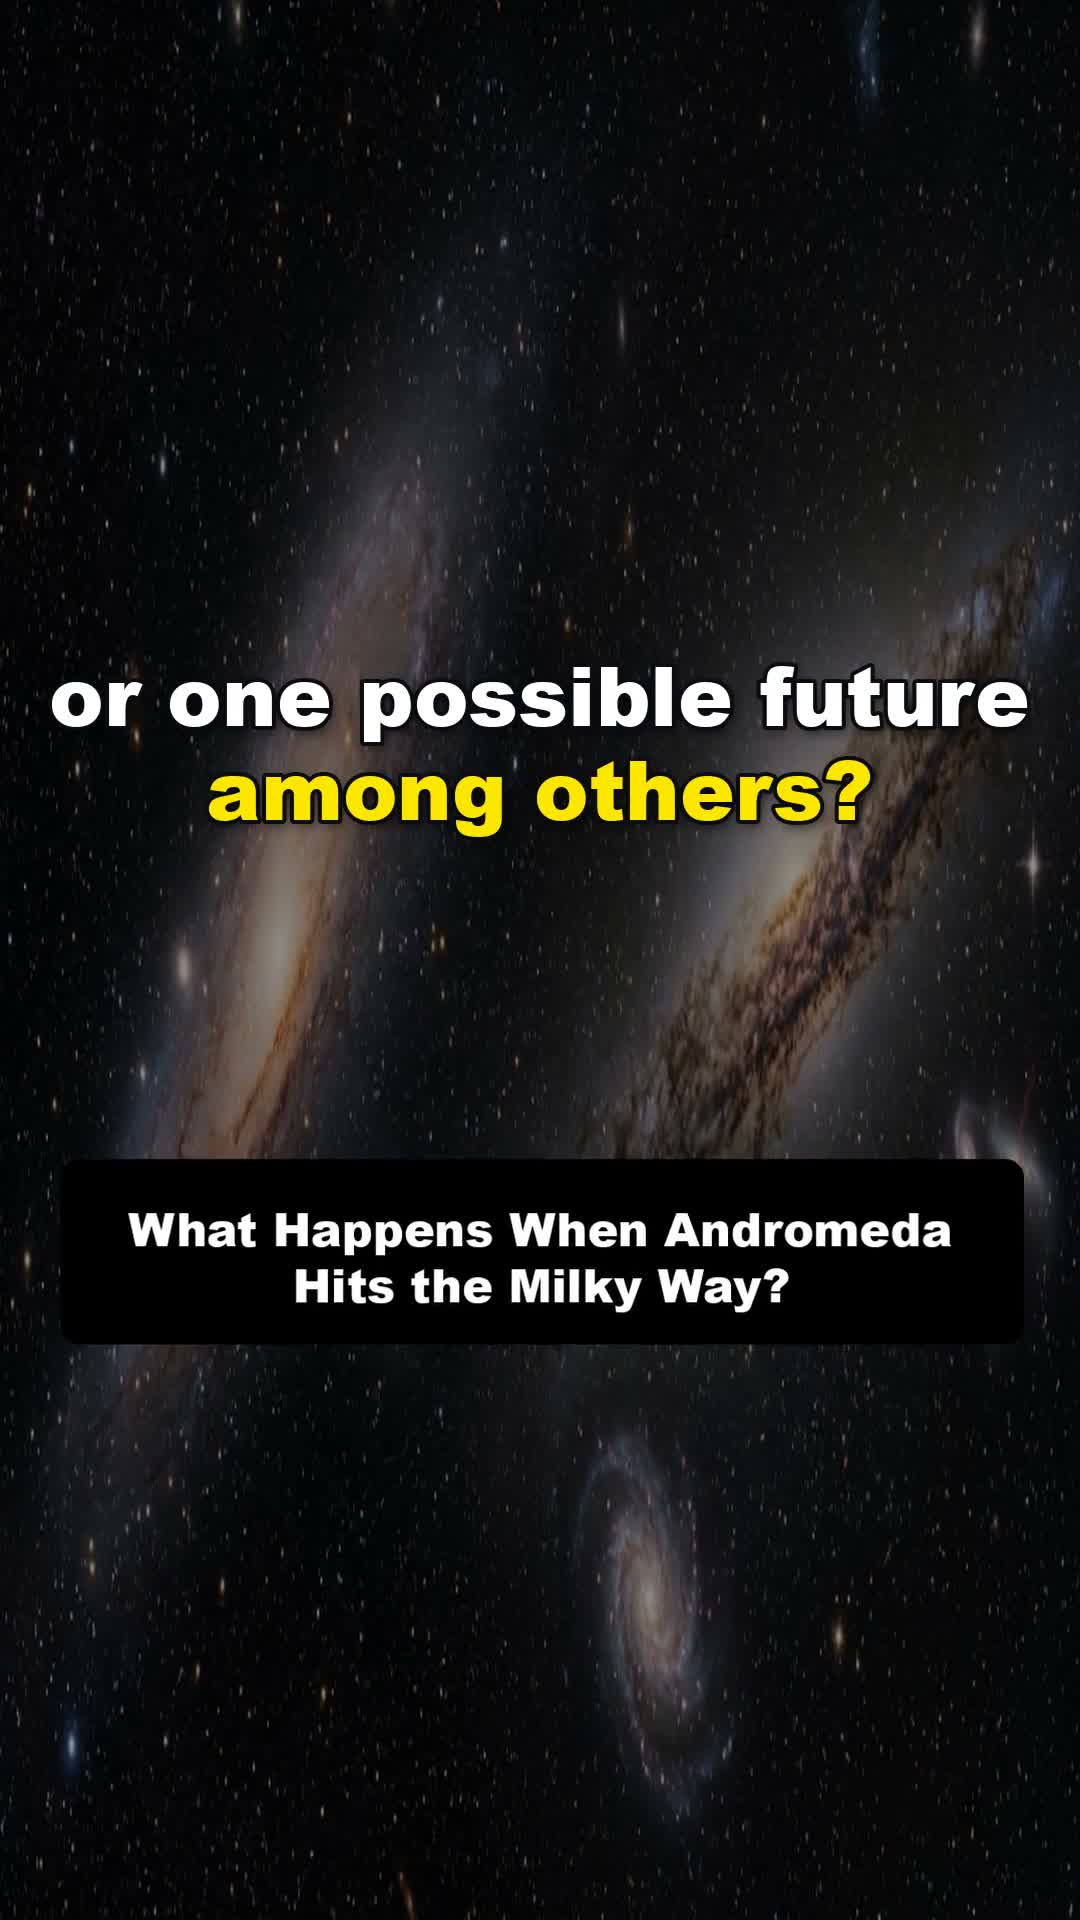
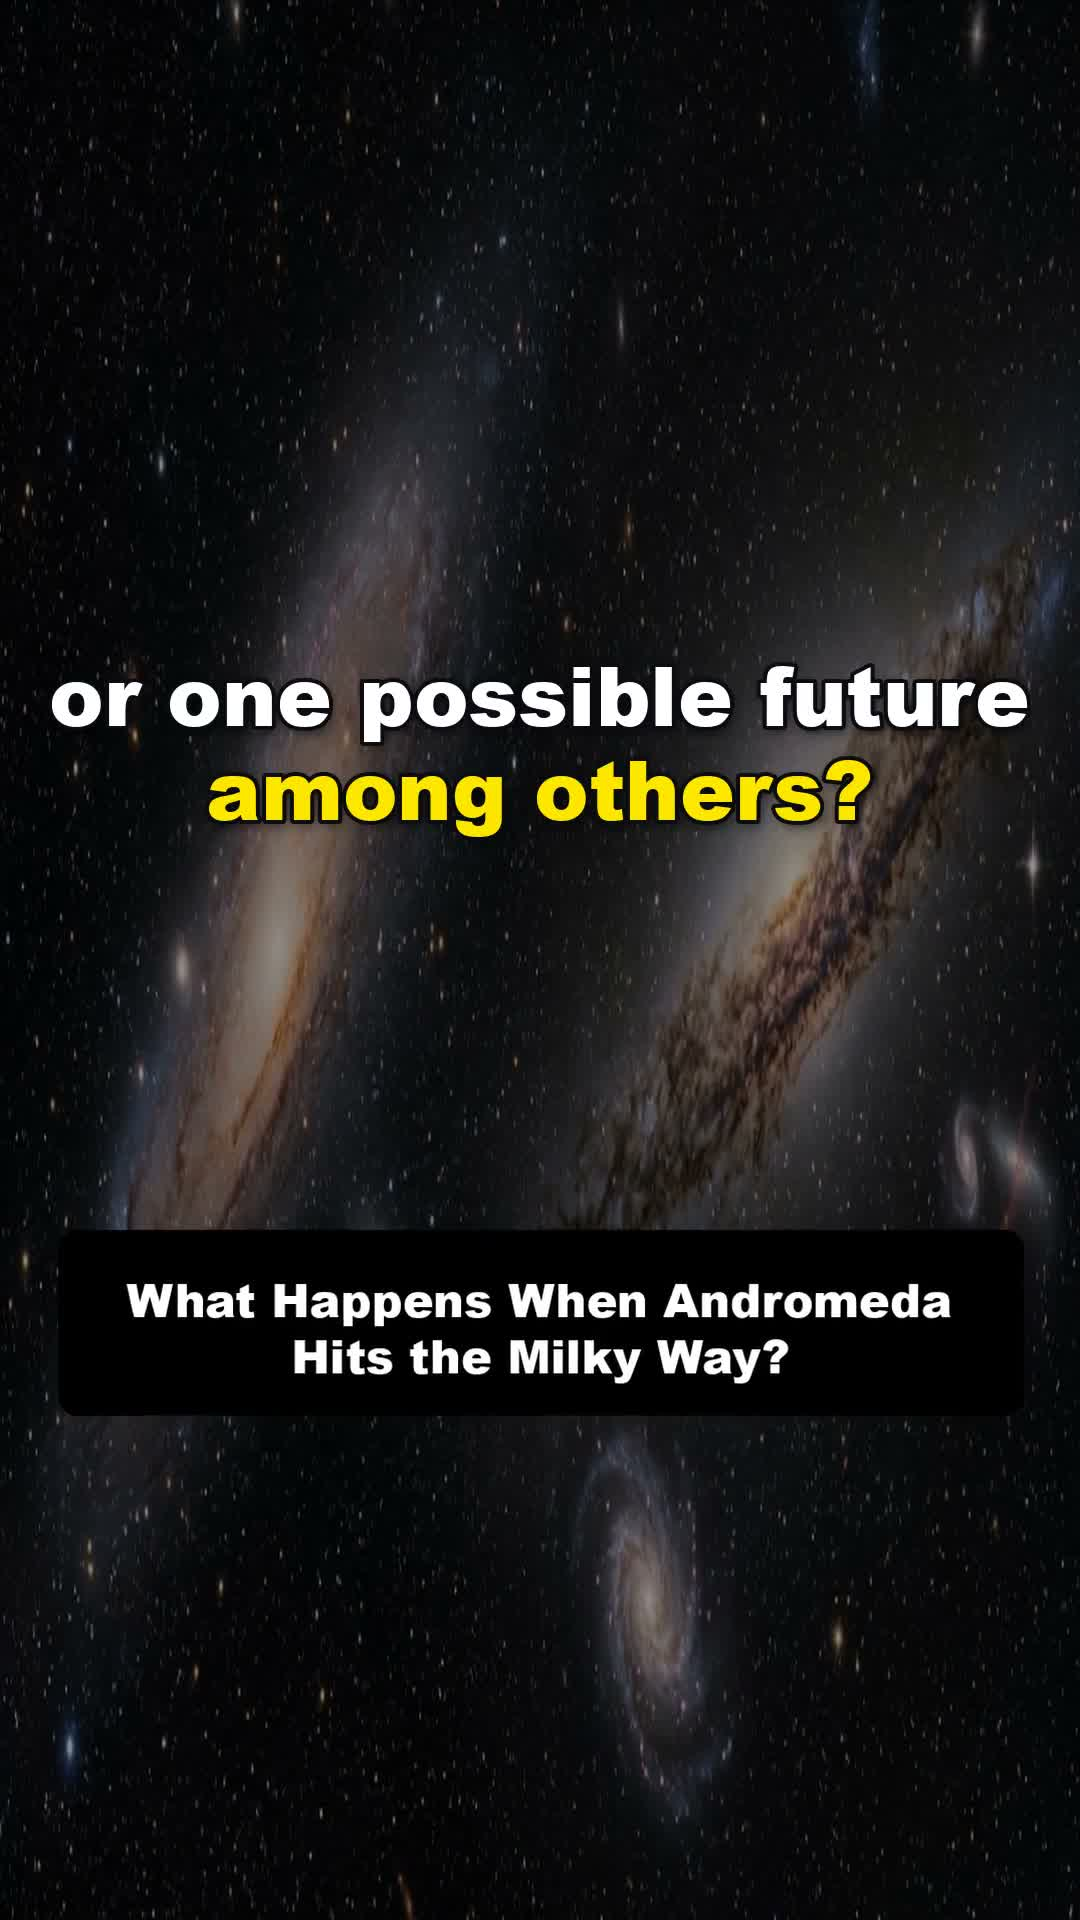
019 k9pXeeJvLpc Local Group recut v01d (#99 5991649783): wide on-model Orbit @5s, caption y=300 off visor, end-card title only, pill y=1320; not uploaded

Changed region(s): [[0.0611, 0.5938, 0.9472, 0.75]]

diff --git a/02_Video-Projects/019_Andromeda-Milky-Way-Collision/10_Shorts/k9pXeeJvLpc_recut/_assemble_k9p_local_group_recut_v01d.py b/02_Video-Projects/019_Andromeda-Milky-Way-Collision/10_Shorts/k9pXeeJvLpc_recut/_assemble_k9p_local_group_recut_v01d.py
@@ -39,8 +39,8 @@ CH06 = REPO / (
 VO_START = 1.55
 VO_END = 25.15  # pad past "others?"
 LONG_TITLE = "What Happens When Andromeda Hits the Milky Way?"
-# v01d: no raw video id on the end card (Claude 5991609023); title only
-PILL_CY = 1250  # v01d: pill centre under the caption block
+# v01d: no raw video id on the end card (Claude 5991649783 / 5991609023); title only
+PILL_CY = 1320  # v01d: below last caption (~800), above CTA y=1500 (Claude asked ~1250; nudged for clearance)
 
 # Caption beats relative to trimmed VO (t=0 at VO_START)
 # yellow = hook word line
@@ -48,7 +48,7 @@ BEATS = [
     # v01c: re-timed to Scribe word times on the trimmed VO (ch06 minus 1.55 s)
     (0.00, 2.55, [("local group", "yellow"), ("isn't a quiet suburb", "white")]),
     (2.95, 6.10, [("small family", "white"), ("two big spirals", "yellow")]),
-    (6.40, 9.10, [("triangulum", "yellow"), ("third major player", "white")], 430),  # v01d: up, clear of visor
+    (6.40, 9.10, [("triangulum", "yellow"), ("third major player", "white")], 300),  # v01d: high, clear of visor
     (9.30, 13.25, [("smaller satellites", "white"), ("shaping the path", "yellow")]),
     (13.40, 15.60, [("gravity", "yellow"), ("and mass", "white")]),
     (16.95, 20.45, [("milky way + andromeda", "white"), ("destiny", "yellow")]),
@@ -202,7 +202,7 @@ def main() -> None:
     plan = [
         ("p0", "still", PLATES / "OPEN_01_local_group.png", 3.8),
         ("p1", "still", PLATES / "omni_still.png", 4.0),
-        ("p2", "motion", PLATES / "omni_02_night_sky_rewrites.mp4", 3.5),  # v01d: shorter, on-model window
+        ("p2", "motion", PLATES / "omni_02_night_sky_rewrites.mp4", 3.5),  # v01d: wide on-model (pupils) window
         ("p3", "still", PLATES / "SCIENCE_A_andromeda_smudge_spiral.png", 3.8),
         ("p4", "still", PLATES / "veo_still.png", 3.8),
         ("p5", "still", PLATES / "SCIENCE_C_disks_stars_miss.png", 3.6),
@@ -218,7 +218,7 @@ def main() -> None:
         if kind == "still":
             still_push(src, dest, length, zoom_end=1.07)
         else:
-            motion_clip(src, dest, length, start=2.60)  # v01d: skip 2.35-2.5 s eye-slit frames
+            motion_clip(src, dest, length, start=5.00)  # v01d: 5 s wide shot — pupils on, caption-safe
         segs.append(dest)
         print(f"  {name} {kind} {length:.2f}s @ {t_cursor:.2f}", flush=True)
         t_cursor += length
@@ -362,14 +362,14 @@ def main() -> None:
             "clean VO tail ending on others?",
             "shorter holds + gentle push",
             "£0 no upload",
-            "v01d: end card title only, pill y=1250",
+            "v01d: end card title only, pill y=1320",
             "v01d: omni close-up on-model frames only",
-            "v01d: beat 3 caption up off visor",
+            "v01d: beat 3 caption y=300 off visor; wide omni from 5.0s",
         ],
     }
     (HERE / "RECUT_v01d_REPORT.json").write_text(json.dumps(meta, indent=2) + "\n")
     (HERE / "RECUT_v01d_REPORT.md").write_text(
-        f"""# k9pXeeJvLpc Local Group recut v01d\n\nv01d = v01c (same VO, captions, plates) with Claude 5991609023 fixes: raw id removed from end card (title only); end-card pill centred at y={PILL_CY}, under the caption block; omni close-up trimmed to on-model frames (clip 2.60 s on, pupils showing, eye-slit frames at 2.35–2.5 s skipped); beat 3 caption moved up to y=430, clear of the visor; open-motion warn accepted.
+        f"""# k9pXeeJvLpc Local Group recut v01d\n\nv01d = v01c (same VO, captions, plates) with Claude 5991649783 fixes: raw id removed from end card (title only); end-card pill centred at y={PILL_CY}, clear below last caption; omni plate uses the 5 s wide on-model window (start=5.0 s, pupils showing — not the slit-eye close-up); beat 3 caption at y=300, clear of the visor; open-motion warn accepted.
 
 - **Final:** `{final}`
 - **Duration:** {dur(final):.2f}s

diff --git a/02_Video-Projects/019_Andromeda-Milky-Way-Collision/10_Shorts/k9pXeeJvLpc_recut/RECUT_v01d_REPORT.md b/02_Video-Projects/019_Andromeda-Milky-Way-Collision/10_Shorts/k9pXeeJvLpc_recut/RECUT_v01d_REPORT.md
@@ -1,6 +1,6 @@
 # k9pXeeJvLpc Local Group recut v01d
 
-v01d = v01c (same VO, captions, plates) with Claude 5991609023 fixes: raw id removed from end card (title only); end-card pill centred at y=1250, under the caption block; omni close-up trimmed to on-model frames (clip 2.60 s on, pupils showing, eye-slit frames at 2.35–2.5 s skipped); beat 3 caption moved up to y=430, clear of the visor; open-motion warn accepted.
+v01d = v01c (same VO, captions, plates) with Claude 5991649783 fixes: raw id removed from end card (title only); end-card pill centred at y=1320, clear below last caption; omni plate uses the 5 s wide on-model window (start=5.0 s, pupils showing — not the slit-eye close-up); beat 3 caption at y=300, clear of the visor; open-motion warn accepted.
 
 - **Final:** `/Users/benjaminoats/YouTube/orbit-with-ben/02_Video-Projects/019_Andromeda-Milky-Way-Collision/10_Shorts/k9pXeeJvLpc_recut/06_Final-Exports/k9pXeeJvLpc_local_group_recut_v01d.mp4`
 - **Duration:** 23.60s
